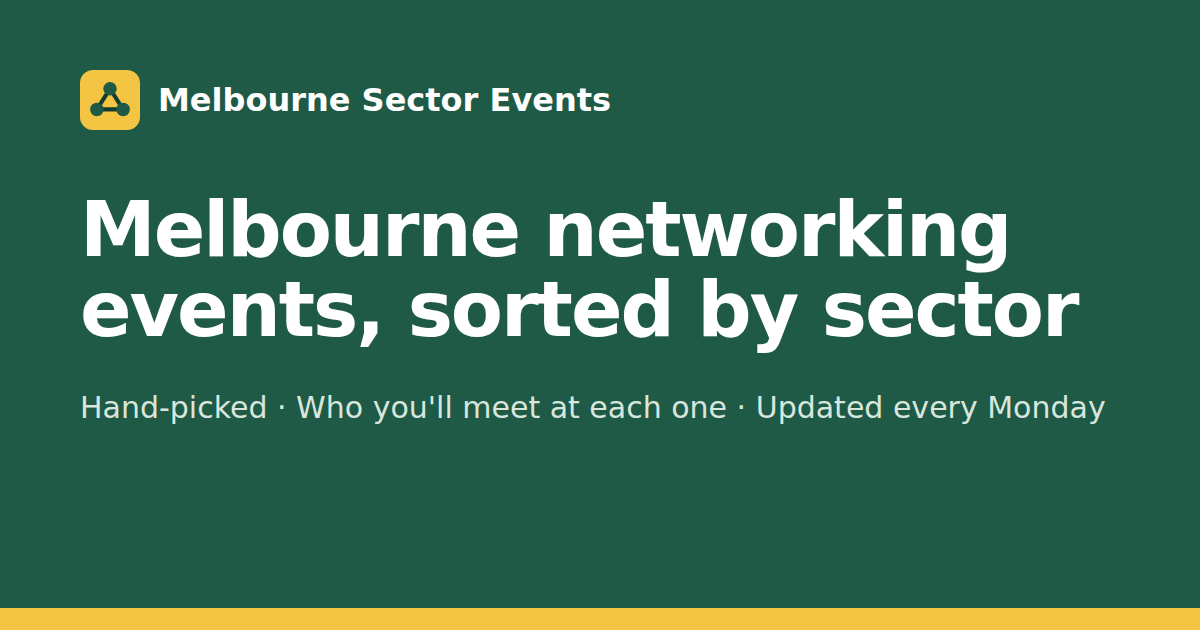
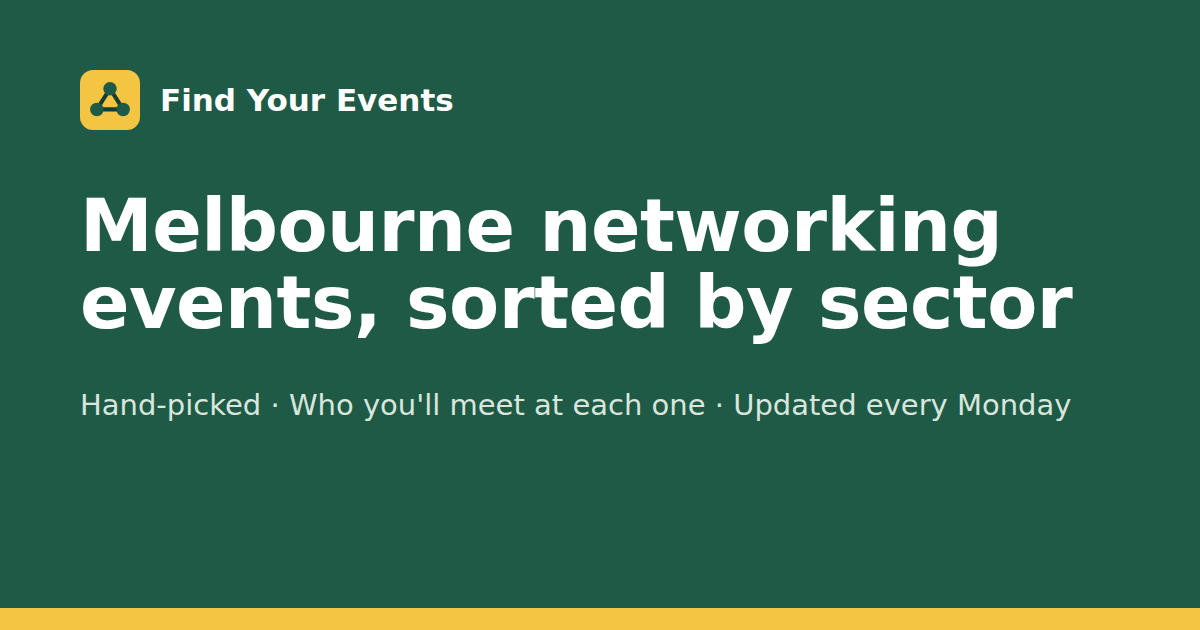
Rename site to Find Your Events, shorten intro, refresh share image
Claude-Session: https://claude.ai/code/session_011ivk7Ra87EntgAGUZEdraN

Changed region(s): [[0.0617, 0.3016, 0.925, 0.573], [0.0617, 0.6032, 0.925, 0.6635], [0.1233, 0.1206, 0.5242, 0.181]]

diff --git a/index.html b/index.html
@@ -3,22 +3,22 @@
 <head>
 <meta charset="utf-8">
 <meta name="viewport" content="width=device-width, initial-scale=1">
-<title>Melbourne Sector Events — networking events sorted by sector</title>
+<title>Find Your Events — Melbourne networking events sorted by sector</title>
 <meta name="description" content="Hand-picked Melbourne networking nights, workshops, masterclasses and webinars for founders, investors and professionals, sorted by sector, with a note on who you'll meet. Updated every Monday.">
 <link rel="icon" type="image/svg+xml" href="favicon.svg">
 <link rel="canonical" href="https://d4pstbvkgd-web.github.io/FindYourEvents/">
 <meta name="theme-color" content="#1E5A45">
 <meta property="og:type" content="website">
 <meta property="og:url" content="https://d4pstbvkgd-web.github.io/FindYourEvents/">
-<meta property="og:title" content="Melbourne Sector Events — networking events sorted by sector">
+<meta property="og:title" content="Find Your Events — Melbourne networking events sorted by sector">
 <meta property="og:description" content="Hand-picked networking nights, workshops and webinars for founders, investors and professionals, with a note on who you'll meet. Updated every Monday.">
 <meta property="og:image" content="https://d4pstbvkgd-web.github.io/FindYourEvents/og.png">
 <meta property="og:image:width" content="1200">
 <meta property="og:image:height" content="630">
-<meta property="og:site_name" content="Melbourne Sector Events">
+<meta property="og:site_name" content="Find Your Events">
 <meta property="og:locale" content="en_AU">
 <meta name="twitter:card" content="summary_large_image">
-<meta name="twitter:title" content="Melbourne Sector Events — networking events sorted by sector">
+<meta name="twitter:title" content="Find Your Events — Melbourne networking events sorted by sector">
 <meta name="twitter:description" content="Hand-picked Melbourne networking events, sorted by sector, with a note on who you'll meet. Updated every Monday.">
 <meta name="twitter:image" content="https://d4pstbvkgd-web.github.io/FindYourEvents/og.png">
 <link rel="preconnect" href="https://fonts.googleapis.com">
@@ -205,9 +205,9 @@
 <body>
 <header>
   <div class="wrap">
-    <a class="brand" href="./" aria-label="Melbourne Sector Events home">
+    <a class="brand" href="./" aria-label="Find Your Events home">
       <svg viewBox="0 0 32 32" aria-hidden="true"><rect width="32" height="32" rx="7" fill="#F4C542"/><path d="M9 21L16 10L23 21Z" fill="none" stroke="#143D2F" stroke-width="2.2" stroke-linejoin="round"/><circle cx="16" cy="10" r="3.6" fill="#1E5A45"/><circle cx="9" cy="21" r="3.6" fill="#1E5A45"/><circle cx="23" cy="21" r="3.6" fill="#1E5A45"/></svg>
-      <span>Melbourne Sector Events</span>
+      <span>Find Your Events</span>
     </a>
     <div class="titlerow">
       <div class="lead">
@@ -298,7 +298,7 @@
 const SUGGEST_FORM_URL = "https://forms.gle/GpZarT28rLhoYpEB7";
 const LAST_CHECKED = "2026-09-28";
 const FIRST_PUBLISHED = "2026-09-06";   // "New" badges only appear on events added after this date
-const INTRO = "Curated by Naz, who works in life sciences in Melbourne. Independent and not affiliated with any organiser — tell me what's missing.";
+const INTRO = "Curated by Naz. Independent and not affiliated with any organiser.";
 const CONTACT_EMAIL = "eventfinder.melbourne@gmail.com";
 // Weekly-email sign-up. Paste your newsletter tool's sign-up form URL here to connect the box
 // (e.g. Buttondown: "https://buttondown.com/api/emails/embed-subscribe/YOURNAME").
@@ -559,7 +559,7 @@ function viewUrl(){const u=new URL(location.href);const p=[];if(state.sector)p.p
 const icsTxt=v=>String(v).replace(/\\/g,"\\\\").replace(/;/g,"\\;").replace(/,/g,"\\,").replace(/\n/g,"\\n");
 function vevent(e){const d=effectiveDate(e),s0=d.replace(/-/g,""),endD=parse(e.end&&!e.rule?e.end:d);endD.setDate(endD.getDate()+1);
   return ["BEGIN:VEVENT",`UID:${e.id}-${s0}@melbourne-sector-events`,`DTSTAMP:${s0}T000000Z`,`DTSTART;VALUE=DATE:${s0}`,`DTEND;VALUE=DATE:${iso(endD).replace(/-/g,"")}`,`SUMMARY:${icsTxt(e.name)}`,`LOCATION:${icsTxt(e.venue)}`,`DESCRIPTION:${icsTxt(e.time+" — "+e.desc+" Register: "+e.url)}`,`URL:${e.url}`,"END:VEVENT"].join("\r\n");}
-function downloadIcs(evs,name){const ics=["BEGIN:VCALENDAR","VERSION:2.0","PRODID:-//Melbourne Sector Events//EN","X-WR-CALNAME:Melbourne Sector Events",...evs.map(vevent),"END:VCALENDAR"].join("\r\n");
+function downloadIcs(evs,name){const ics=["BEGIN:VCALENDAR","VERSION:2.0","PRODID:-//Find Your Events//EN","X-WR-CALNAME:Find Your Events",...evs.map(vevent),"END:VCALENDAR"].join("\r\n");
   const a=document.createElement("a");a.href=URL.createObjectURL(new Blob([ics],{type:"text/calendar"}));a.download=name;document.body.appendChild(a);a.click();a.remove();}
 document.addEventListener("click",ev=>{
   const b=ev.target.closest("button");if(!b)return;
